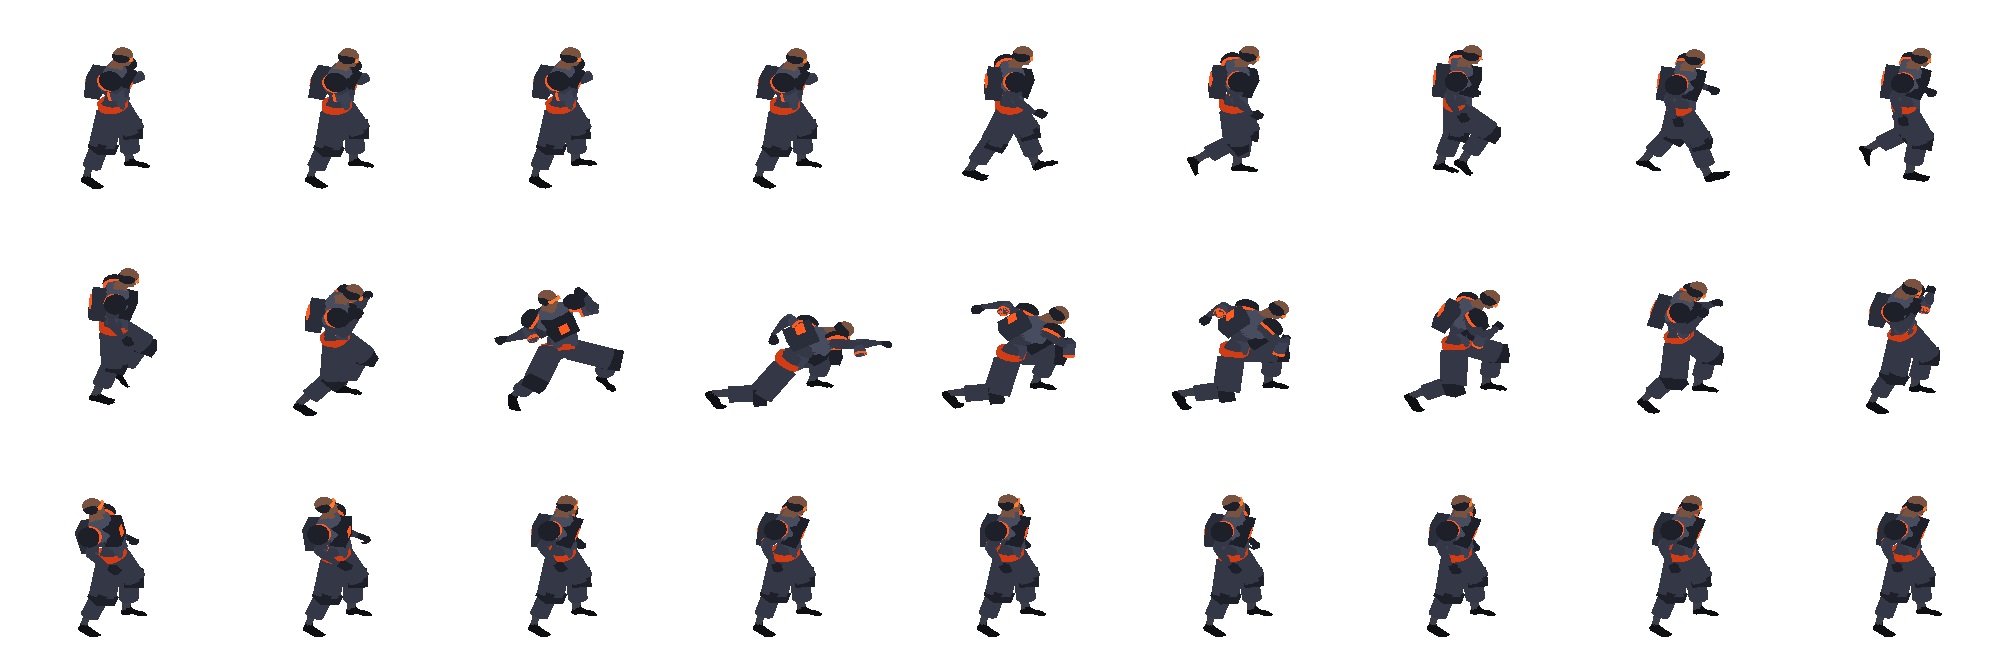
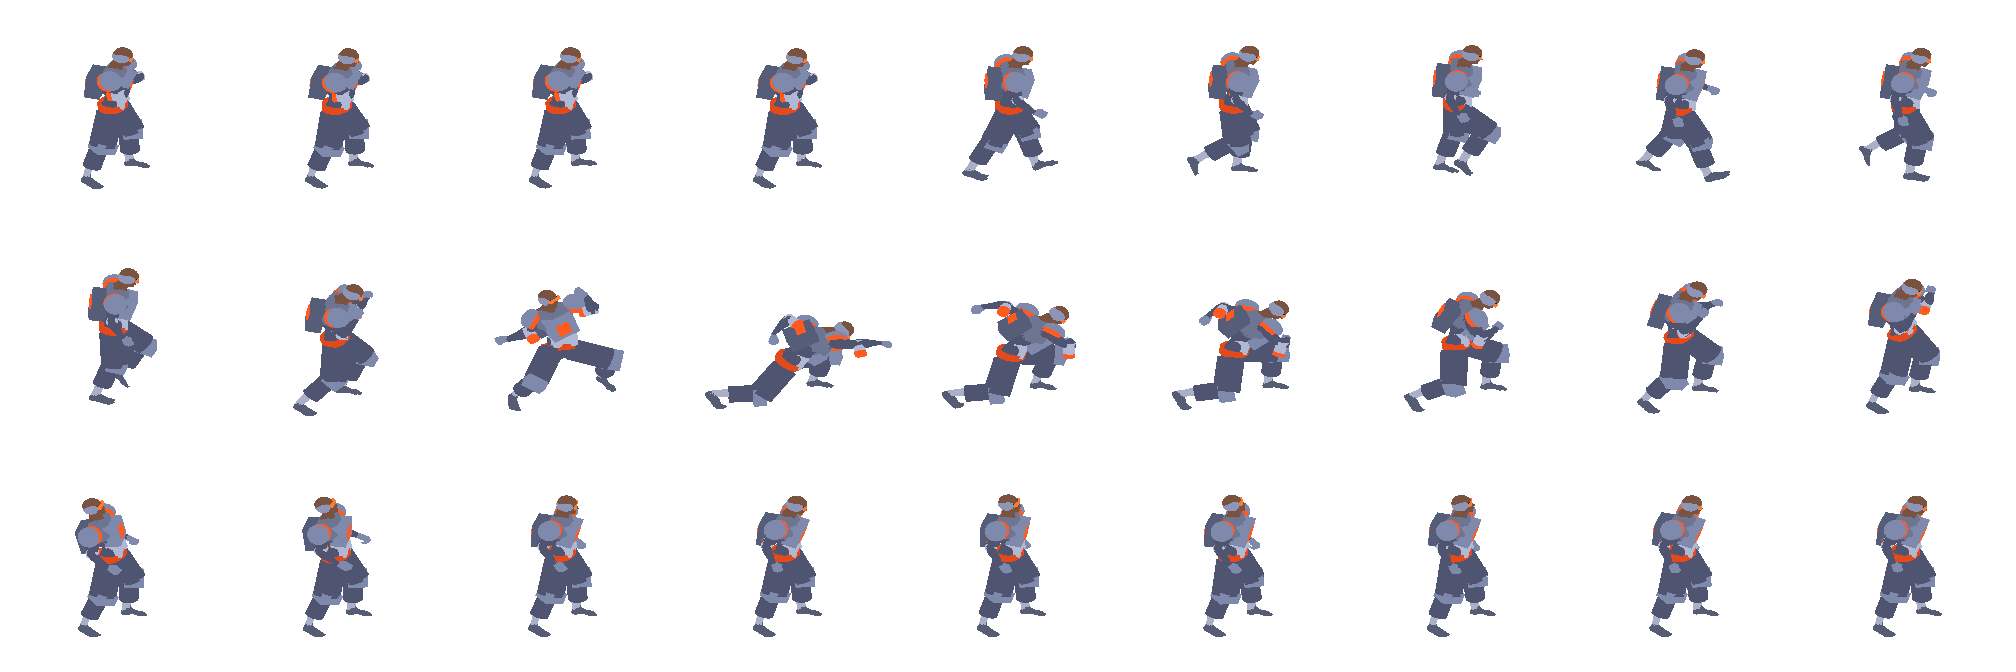
fix(nr): the heavy's plates, helmet and boots stand above the street under the darkest neon
Heavy palette raised (plate, plateHi, helm, boots, sole, suit, pack) and its orange trim given more coverage (chest core,
pauldron trims, bracer bands). Re-pinned, re-rendered and re-installed; the atlas budget is unchanged (heavy 27 frames of 224x224
on 2016x672, 36.12 MiB for the three).

diff --git a/games/nr/assets/PROVENANCE.md b/games/nr/assets/PROVENANCE.md
@@ -47,16 +47,17 @@ Blender 4.5.15 (build `5afeabba6097`, `scripts/deps.lock`), installed with `INST
 
 | Input | sha256 |
 | --- | --- |
[10 lines of base64/hex data omitted]
 
 Clips (27 frames, one 2016x672 page per sheet, 224x224 cells at the hero's 64 pixels per unit): idle (`Idle_FoldArms_Loop`),
 walk (`Walk_Loop`), attack (`Melee_Hook` then `Melee_Hook_Rec`), hurt (`Hit_Chest`) and stagger (`Hit_Head`). The body is
 the kit's Superhero mesh widened by the profile (`widthScale` 1.55, `depthScale` 1.3), with a helmet, chest plate,
-pauldrons, bracers, knee plates and back pack in a dark palette with a red-orange accent, and no hair mesh. The cell is wider
+pauldrons, bracers, knee plates and back pack in a steel palette (plates, helmet and boots set well above the street's value
+under the darkest neon, the armour lighter than the suit so its boundaries show) with a red-orange accent, and no hair mesh. The cell is wider
 than the hero's because the hook reaches 190 texels from its left edge.
 
 Actions used by the enemies, by file: `UAL1_Standard.glb` for `Idle_Loop`, `Walk_Loop`, `Punch_Jab`, `Hit_Chest` and
